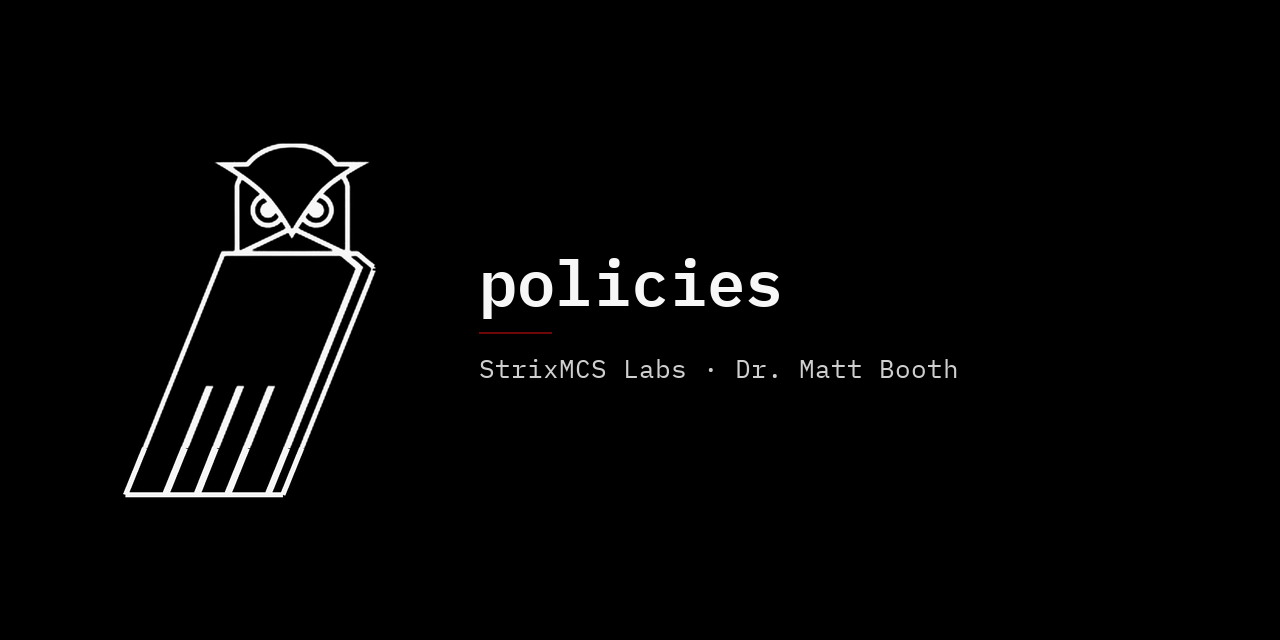
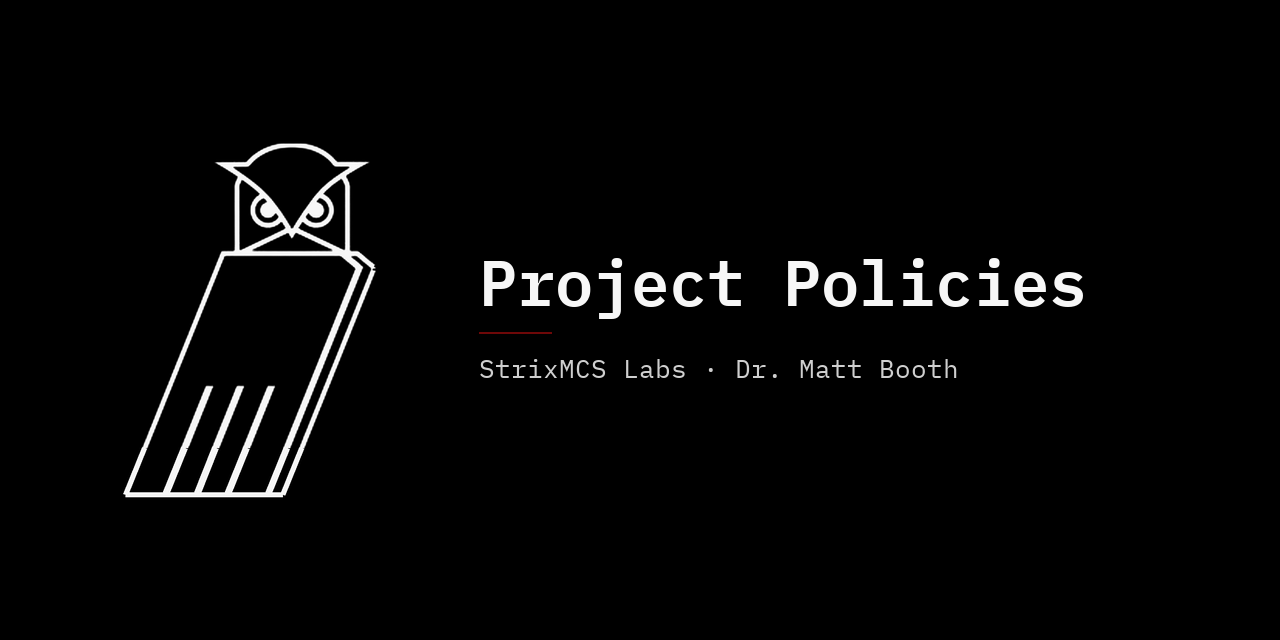
Show the project name on the social preview (#2)
Use the project's display name instead of the repository name, so all
StrixMCS Labs cards read consistently, and update docs/IMAGES.md.

Changed region(s): [[0.375, 0.4062, 0.8438, 0.5]]

diff --git a/docs/IMAGES.md b/docs/IMAGES.md
@@ -6,6 +6,6 @@ Every image used in this repository's documentation, with its source, caption an
 
 | Path | Used in | What it shows | Alt text / caption | Captured | Status |
 |---|---|---|---|---|---|
-| `.github/social-preview.png` | Repository social preview (set in GitHub settings) | Owl head, repository name and StrixMCS Labs byline on black, 1280×640 | "policies — StrixMCS Labs" / Repository card shown when the repository is linked | 2026-10-26 | current |
+| `.github/social-preview.png` | Repository social preview (set in GitHub settings) | Owl head, the project name "Project Policies" and the StrixMCS Labs byline on black, 1280×640 | "Project Policies — StrixMCS Labs" / Repository card shown when the repository is linked | 2026-10-26 | current |
 
 The policy documents contain no images.
